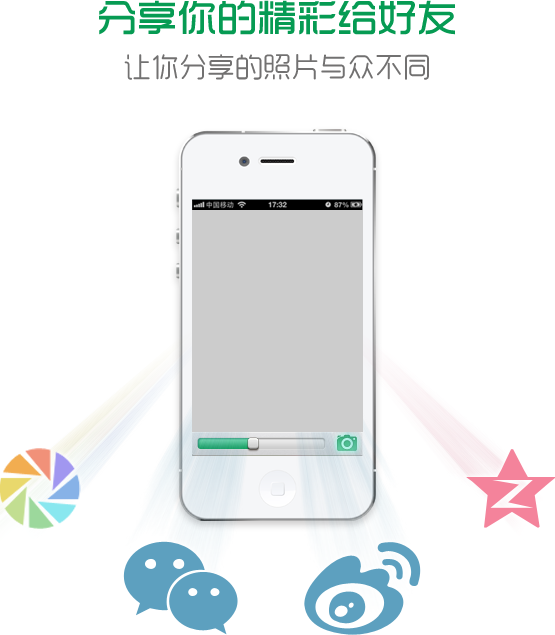
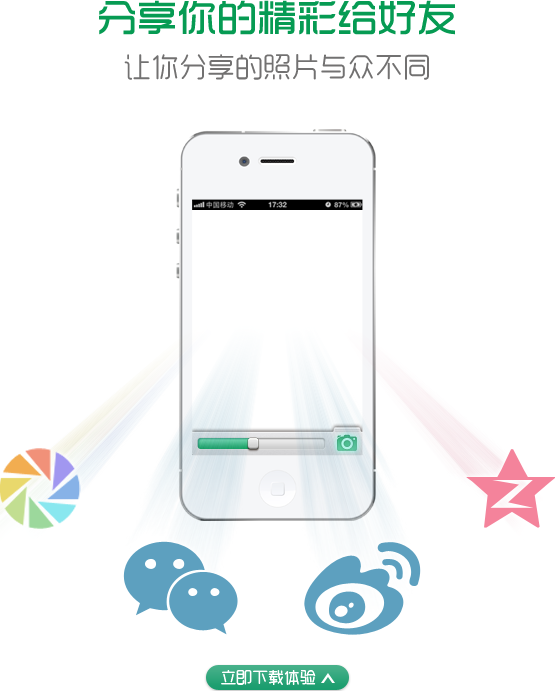
up

diff --git a/src/asset/desktop/style.css b/src/asset/desktop/style.css
@@ -186,6 +186,14 @@ a.null{
 	position: relative;
 	background: url("img_info_four.png") no-repeat center 56px;
 }
+.partfour .partfour-con .link-four{
+	width: 145px;
+	height: 26px;
+	position: absolute;
+	top: 721px;
+	left: 320px;
+	z-index: 30;
+}
 .partfour .partfour-con .bg{
 	width: 170px;
 	height: 222px;

diff --git a/pages/desktop_index_demo.html b/pages/desktop_index_demo.html
@@ -63,6 +63,7 @@
             
             <div class="partfour" id="part4">
                 <div class="partfour-con">
+                    <a href="#" class="link-four null"></a>
                     <div class="bg"></div>
                     <div class="img-scroll">
                         <ul>
